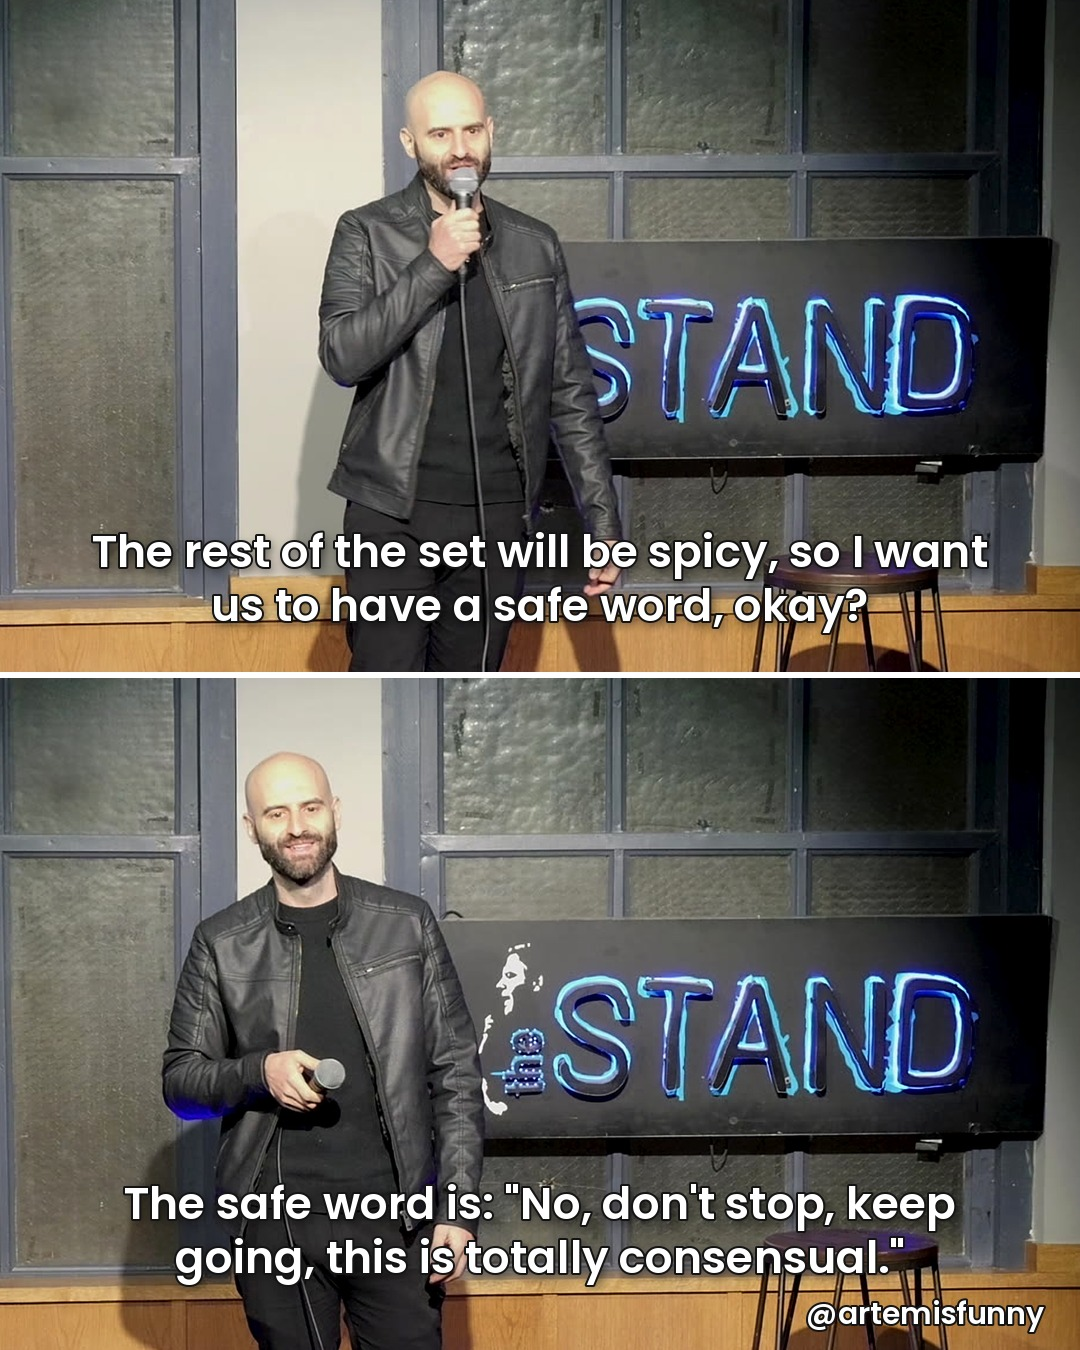
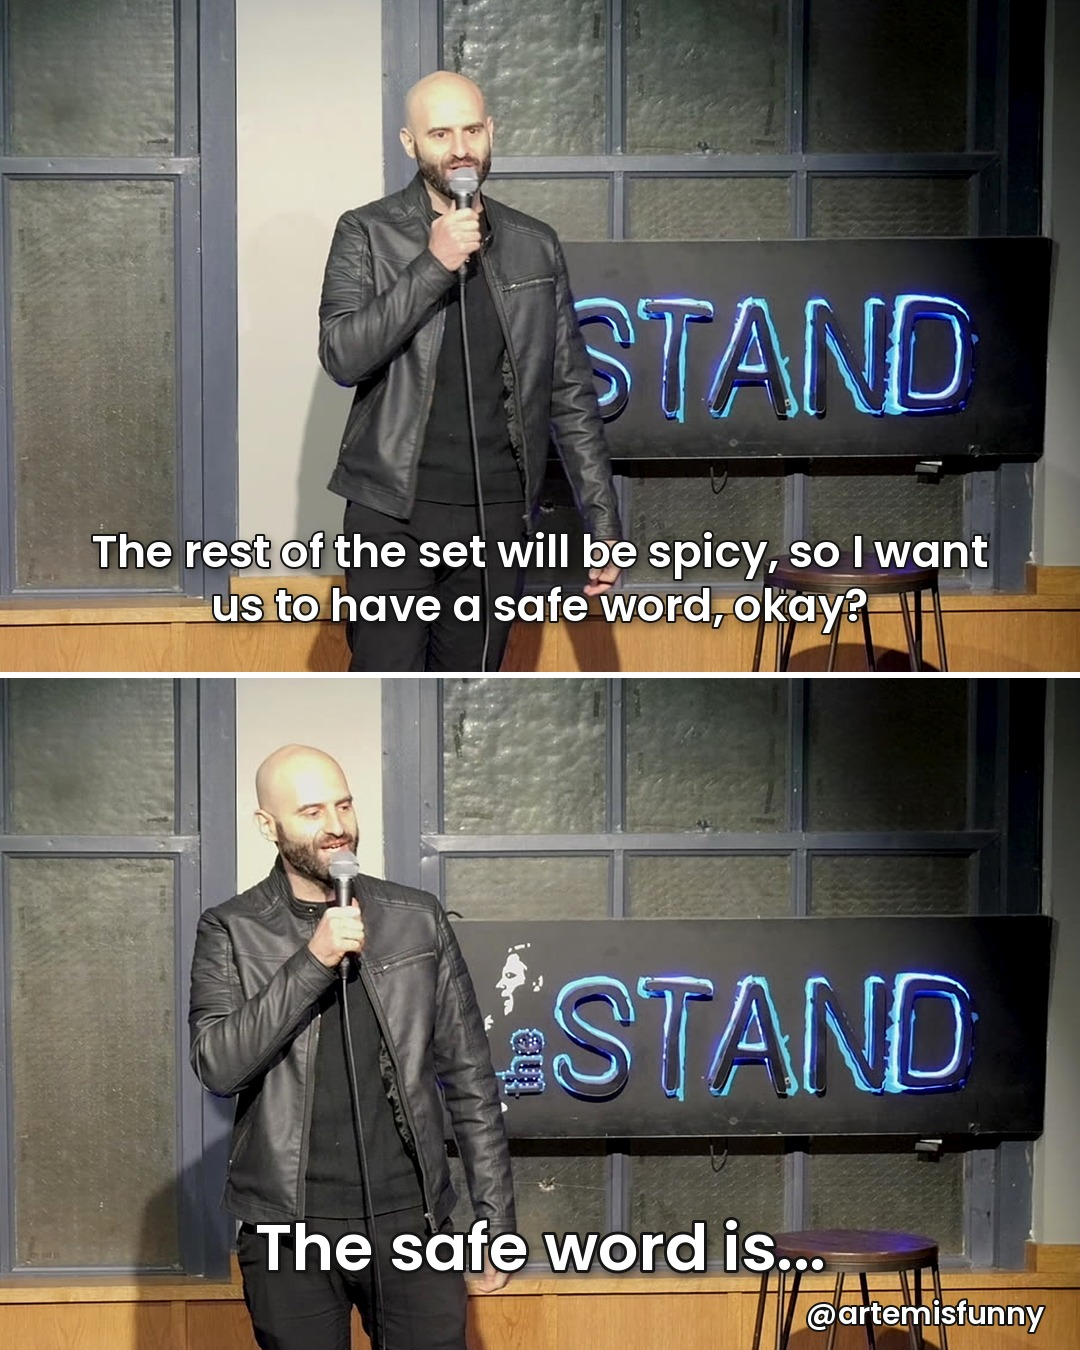
Safe Word v2: whole safe word as one list slide, mic-up stills
Three slides: setup, the full safe word listed down the right of one photo,
then the 'same order' button. Swapped the mic-down still (208) for 219.5.

Claude-Session: https://claude.ai/code/session_01EF93tfxUuMCYzNZMZAUpcb

Changed region(s): [[0.0917, 0.5289, 0.8861, 1.0]]

diff --git a/joke-carousels/list_slide.py b/joke-carousels/list_slide.py
@@ -1,0 +1,32 @@
+"""One-photo slide with a list on the right. Usage: list_slide.py photo out.jpg item1 item2 ..."""
+import os, sys
+from PIL import Image, ImageDraw, ImageFilter, ImageFont
+FONT = os.path.expanduser("~/.fonts/Poppins-SemiBold.ttf")
+W, H = 1080, 1350
+photo, out, items = sys.argv[1], sys.argv[2], sys.argv[3:]
+img = Image.open(photo).convert("RGB").resize((W, H))
+# Darken the right side so the list reads over the sign.
+shade = Image.new("L", (W, H), 0); sd = ImageDraw.Draw(shade)
+for x in range(W):
+    sd.line([(x, 0), (x, H)], fill=int(max(0, min(1, (x - 430) / 260)) * 175))
+img = Image.composite(Image.new("RGB", (W, H), (0, 0, 0)), img, shade)
+d = ImageDraw.Draw(img); fnt = ImageFont.truetype(FONT, 56); x0, maxw = 560, W - 560 - 40
+def wrap(t):
+    lines, cur = [], ""
+    for w in t.split():
+        test = f"{cur} {w}".strip()
+        if d.textlength(test, font=fnt) <= maxw: cur = test
+        else: lines.append(cur); cur = w
+    return lines + [cur]
+blocks = [wrap(t) for t in items]; lh = 68; gap = 30
+total = sum(len(b) * lh for b in blocks) + gap * (len(blocks) - 1); y = (H - total) // 2
+sh = Image.new("RGBA", (W, H), (0, 0, 0, 0)); sdr = ImageDraw.Draw(sh); yy = y
+for b in blocks:
+    for line in b: sdr.text((x0 + 3, yy + 4), line, font=fnt, fill=(0, 0, 0, 170)); yy += lh
+    yy += gap
+img.paste(sh.filter(ImageFilter.GaussianBlur(5)), (0, 0), sh.filter(ImageFilter.GaussianBlur(5)))
+for b in blocks:
+    for line in b: d.text((x0, y), line, font=fnt, fill="white", stroke_width=3, stroke_fill=(20, 20, 20)); y += lh
+    y += gap
+d.text((W - 36, H - 26), "@artemisfunny", font=ImageFont.truetype(FONT, 30), fill="white", anchor="rs", stroke_width=2, stroke_fill=(20, 20, 20))
+img.save(out, quality=92)

diff --git a/joke-carousels/captions-safe-word.md b/joke-carousels/captions-safe-word.md
@@ -1,14 +1,16 @@
 # Safe Word (`out/split_safe_word_1-2.jpg`)
 
-Build: `python3 joke-carousels/split_posts.py joke-carousels/safe_word.json`
+Build: `python3 joke-carousels/split_posts.py joke-carousels/safe_word.json`, rename slide 2 to 3, then `python3 joke-carousels/list_slide.py <portrait still> joke-carousels/out/split_safe_word_2.jpg "No," "don't stop," ...`
 
 Wording is the Notion Joke field plus the tags that land on tape (Structure notes, 2026-10-11): the safe word in one breath, "I'm enjoying this very much", and "you gotta say it in exactly the same order" as the button. Tape score 7.94 laughs/min (15 deliveries, #2 in the 10/7 rankings).
 
 Background: The Stand NYC, 03/21/26 (`TheStand 03_21_26_ArtemMashkov.mov`, 1080p ProRes, locked-off camera), Artem's best Safe Word night (11.41/min). First carousel off the Broadway red curtain. Fixed crop (x 540, y 110, 920x573) so the STAND sign sits in the same spot on every photo, then AI super-resolution (EDSR x2) to 2160x1344.
 
-Stills used (seconds into the tape), all in `photos/stills-bank/thestand-2026-03-21/`:
-- Slide 1: neutral 150.5 / smile 208.0
-- Slide 2: neutral 183.5 / smile 24.0 (91.5 swapped out, eyes looking down)
+v2 (Artem, 2026-10-29): the whole safe word sits on one slide as a list down the right side of a single photo, and the mic is up at his mouth in every shot.
+- Slide 1: neutral 150.5 "The rest of the set will be spicy..." / smile 24.0 "The safe word is..."
+- Slide 2: one photo (36.5, portrait crop) + the list, built with `list_slide.py`
+- Slide 3: neutral 183.5 "You gotta say it..." / smile 219.5 "...in exactly the same order."
+Stills are in `photos/stills-bank/thestand-2026-03-21/` (the portrait crop is in `portrait/`). 208 was dropped because the mic is down at his waist.
 
 Caption options (one deadpan line, no punch hint):
 - the rest of the set will be spicy
